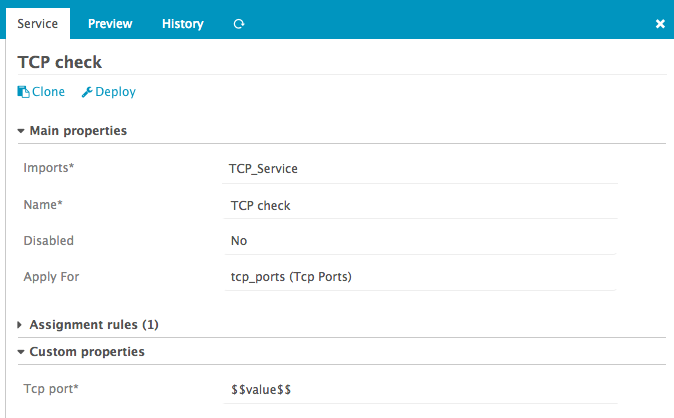
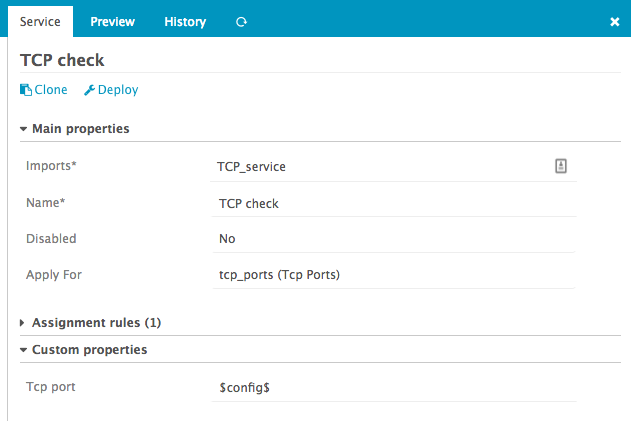
Use `config` variable in apply for rules
* use `config` instead of `value` in apply for rules
* update documentation

refs #11976

diff --git a/application/forms/IcingaServiceForm.php b/application/forms/IcingaServiceForm.php
@@ -288,8 +288,8 @@ class IcingaServiceForm extends DirectorObjectForm
                 'description' => $this->translate(
                     'Evaluates the apply for rule for ' .
                     'all objects with the custom attribute specified. ' .
-                    'E.g selecting "host.vars.custom_attr" will generate "for (value in ' .
-                    'host.vars.array_var)" where "value" will be accessible through "$$value$$". ' .
+                    'E.g selecting "host.vars.custom_attr" will generate "for (config in ' .
+                    'host.vars.array_var)" where "config" will be accessible through "$config$". ' .
                     'NOTE: only custom variables of type "Array" are eligible.'
                 )
             ));

diff --git a/library/Director/Objects/IcingaService.php b/library/Director/Objects/IcingaService.php
@@ -159,7 +159,7 @@ class IcingaService extends IcingaObject
             && $this->get('apply_for') !== null) {
 
             return sprintf(
-                "%s %s %s for (value in %s) {\n",
+                "%s %s %s for (config in %s) {\n",
                 $this->getObjectTypeName(),
                 $this->getType(),
                 c::renderString($this->getObjectName()),

diff --git a/test/php/library/Director/Objects/IcingaServiceTest.php b/test/php/library/Director/Objects/IcingaServiceTest.php
@@ -254,7 +254,7 @@ class IcingaServiceTest extends BaseTestCase
 
         $service = IcingaService::loadWithAutoIncId($service->id, $db);
         $this->assertEquals(
-            $this->loadRendered('service3'),
+            $this->loadRendered('service5'),
             (string) $service
         );
     }

diff --git a/doc/15-Service-apply-for-example.md b/doc/15-Service-apply-for-example.md
@@ -25,8 +25,10 @@ Then create a new `apply-rule` for the `Service template`:
 ![Define apply rule](screenshot/director/15_apply-for-services/154_create_apply_rule.png)
 
 Now define the `Apply For` property, select the previously defined field `tcp_ports` associated to
-the host template. `Apply For` rule define a variable `value` that can be used as `$$value$$`, it 
-corresponds to the item of the array it will iterate on. Set the `Tcp port` property to `$$value$$`:
+the host template. `Apply For` rule define a variable `config` that can be used as `$config$`, it 
+corresponds to the item of the array it will iterate on. 
+
+Set the `Tcp port` property to `$config$`:
 
 ![Add field to template](screenshot/director/15_apply-for-services/155_configure_apply_for.png)
 
